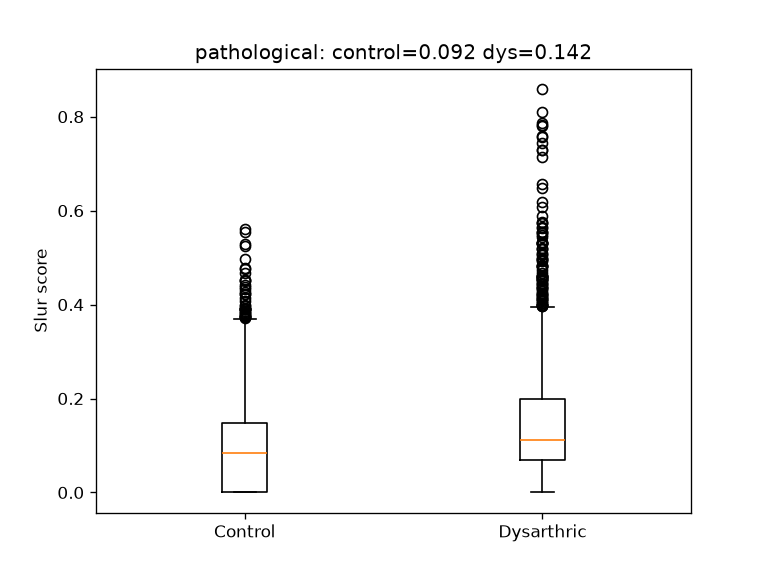
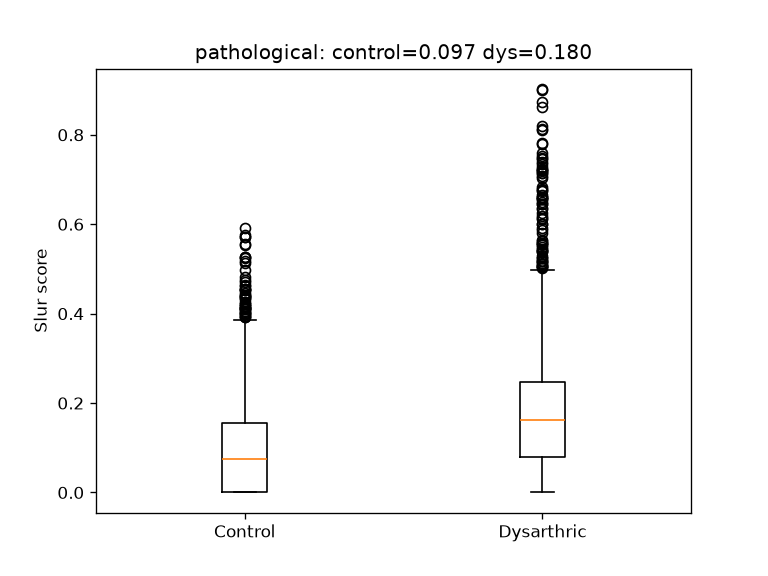
Re-run slur evaluation with the fixed voiced-gated DSP (AUC 0.62 TORGO / 0.68 pathological)

diff --git a/tools/slur_eval/README.md b/tools/slur_eval/README.md
@@ -19,13 +19,16 @@ port of `app/src/main/java/com/hackmit/app/audio/{SlurDetector,Dsp}.kt`.
 - Metrics: AUC (control vs dysarthric), per-feature AUC, score-vs-severity
   Spearman (pathological set).
 
-## Results
-- TORGO: AUC ≈ **0.54** (near chance; TORGO short words are mostly mild).
-- pathological: AUC ≈ **0.62**; per-feature AUCs: f0Std 0.61, hnr 0.61, pause 0.60,
-  jitter 0.60, shimmer 0.54.
+## Results (voiced-gated DSP)
+- TORGO: AUC ≈ **0.62** (control vs dysarthric, leave-speaker-out).
+- pathological: AUC ≈ **0.68**; strongest features: jitter 0.68, f0Std 0.61,
+  shimmer 0.62, hnr 0.48.
 - Severity correlation is weak/negative on the pathological set: severely
   unintelligible speech often loses voicing entirely, so pitch-based
   jitter/shimmer/HNR collapse toward zero and the detector under-scores it.
+- These numbers use the **fixed voiced-gated sub-frame DSP** (pitch/jitter/HNR
+  on voiced 40 ms frames) that shipped in the app — the earlier full-window
+  DSP scored 0.48 / 0.62.
 
 ## Validation of the DSP port
 A clean 200 Hz tone yields f0=200.0 Hz, jitter=0.000, shimmer=0.000, HNR=40 dB;

diff --git a/tools/slur_eval/out/pathological_report.md b/tools/slur_eval/out/pathological_report.md
@@ -1,14 +1,14 @@
 # pathological slur-detection evaluation
 
 - control clips: 2000, dysarthric clips: 2000
-- control mean score: 0.0922
-- dysarthric mean score: 0.1421
-- AUC (mean_raw, control vs dysarthric): **0.621**
-- severity vs score Spearman rho: -0.210 (p=2.19e-21)
+- control mean score: 0.0973
+- dysarthric mean score: 0.1802
+- AUC (mean_raw, control vs dysarthric): **0.683**
+- severity vs score Spearman rho: -0.244 (p=2.19e-28)
 - per-feature AUC (control vs dysarthric):
-  - jitter: 0.6
-  - shimmer: 0.538
-  - hnr: 0.611
+  - jitter: 0.682
+  - shimmer: 0.62
+  - hnr: 0.483
   - f0Std: 0.613
   - ems4hz: 0.536
   - pauseRatio: 0.603

diff --git a/tools/slur_eval/out/torgo_report.md b/tools/slur_eval/out/torgo_report.md
@@ -1,15 +1,15 @@
 # torgo slur-detection evaluation
 
 - control clips: 2000, dysarthric clips: 2000
-- control mean score: 0.1339
-- dysarthric mean score: 0.1375
-- AUC (mean_raw, control vs dysarthric): **0.482**
+- control mean score: 0.1474
+- dysarthric mean score: 0.2220
+- AUC (mean_raw, control vs dysarthric): **0.622**
 - severity vs score Spearman rho: nan (p=nan)
 - per-feature AUC (control vs dysarthric):
-  - jitter: 0.558
-  - shimmer: 0.435
-  - hnr: 0.546
+  - jitter: 0.667
+  - shimmer: 0.593
+  - hnr: 0.306
   - f0Std: 0.68
   - ems4hz: 0.3
-  - pauseRatio: 0.26
+  - pauseRatio: 0.312
   - wpm: 0.384
